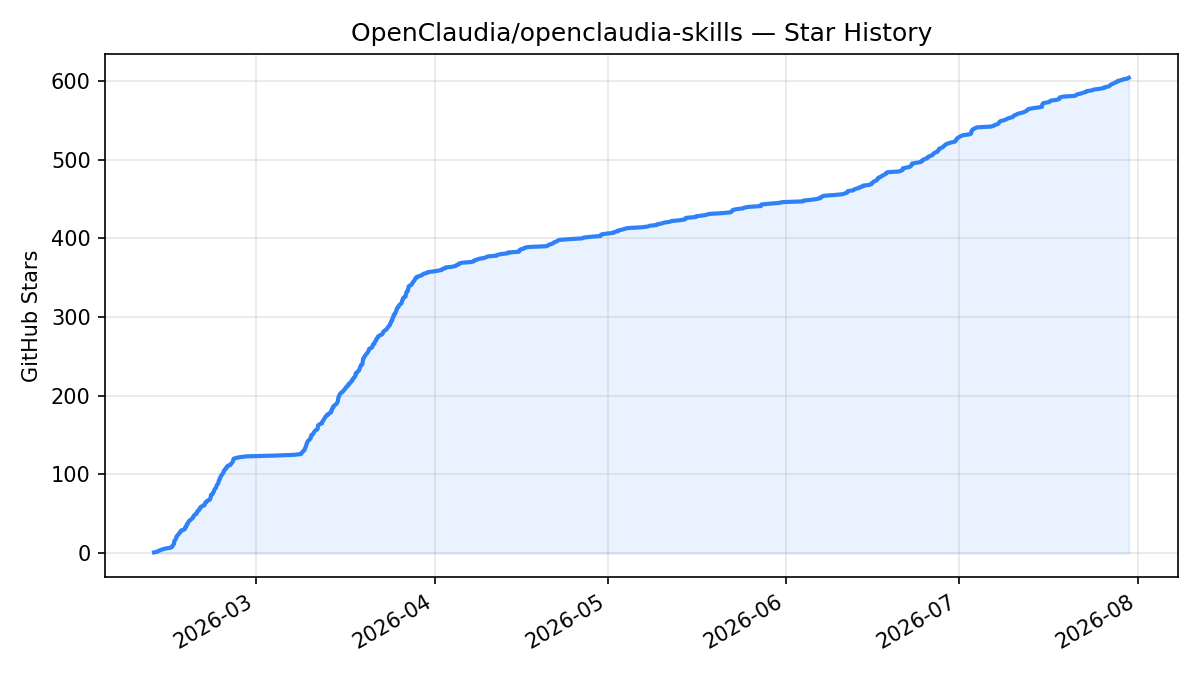
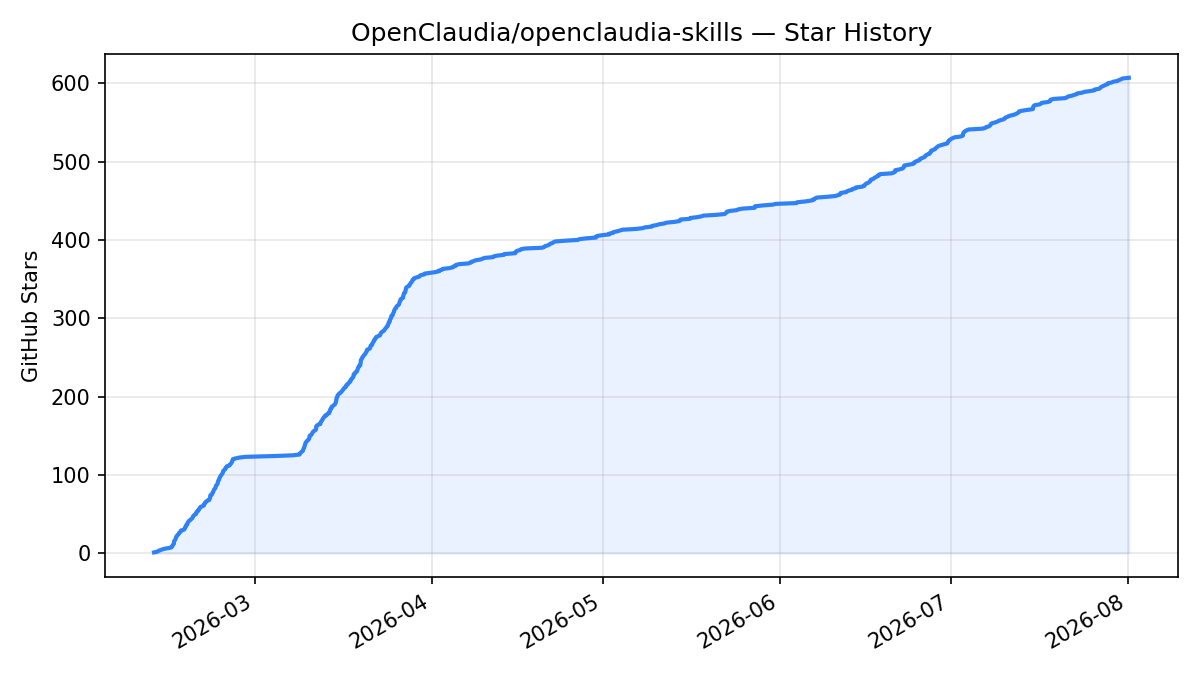
readme: refresh star chart (607 stars)

diff --git a/README.md b/README.md
@@ -327,7 +327,7 @@ MIT — see [LICENSE](LICENSE)
 
 ![Star History Chart](assets/star-history.png)
 
-<sub>Updated 2026-07-30. GitHub [restricted the stargazers API](https://github.blog/changelog/2026-06-30-upcoming-access-restrictions-to-public-api-endpoints-and-ui-views/) in June 2026, so the live star-history.com badge no longer renders; this chart is generated from the repo's own star data.</sub>
+<sub>Updated 2026-08-01. GitHub [restricted the stargazers API](https://github.blog/changelog/2026-06-30-upcoming-access-restrictions-to-public-api-endpoints-and-ui-views/) in June 2026, so the live star-history.com badge no longer renders; this chart is generated from the repo's own star data.</sub>
 
 ---
 
